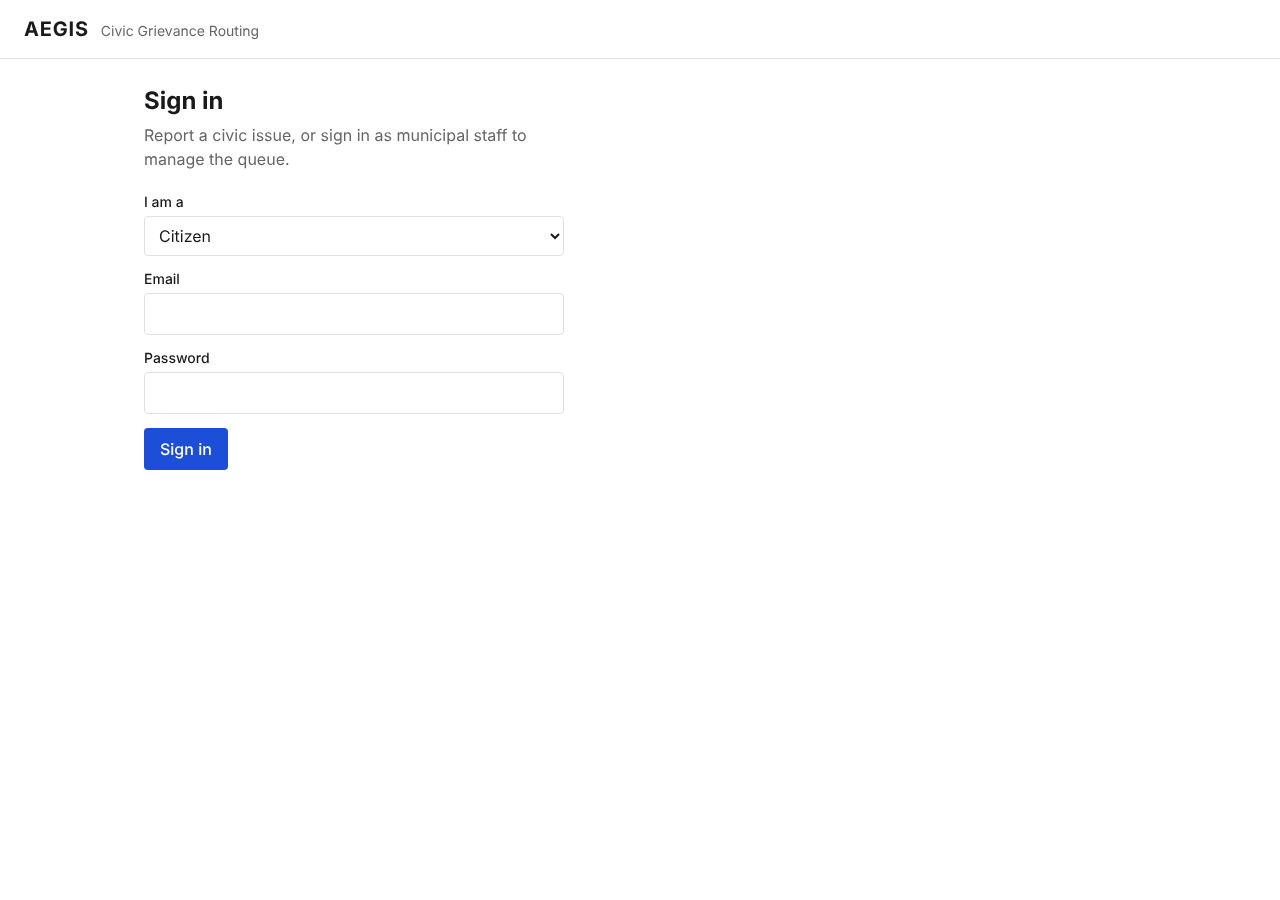
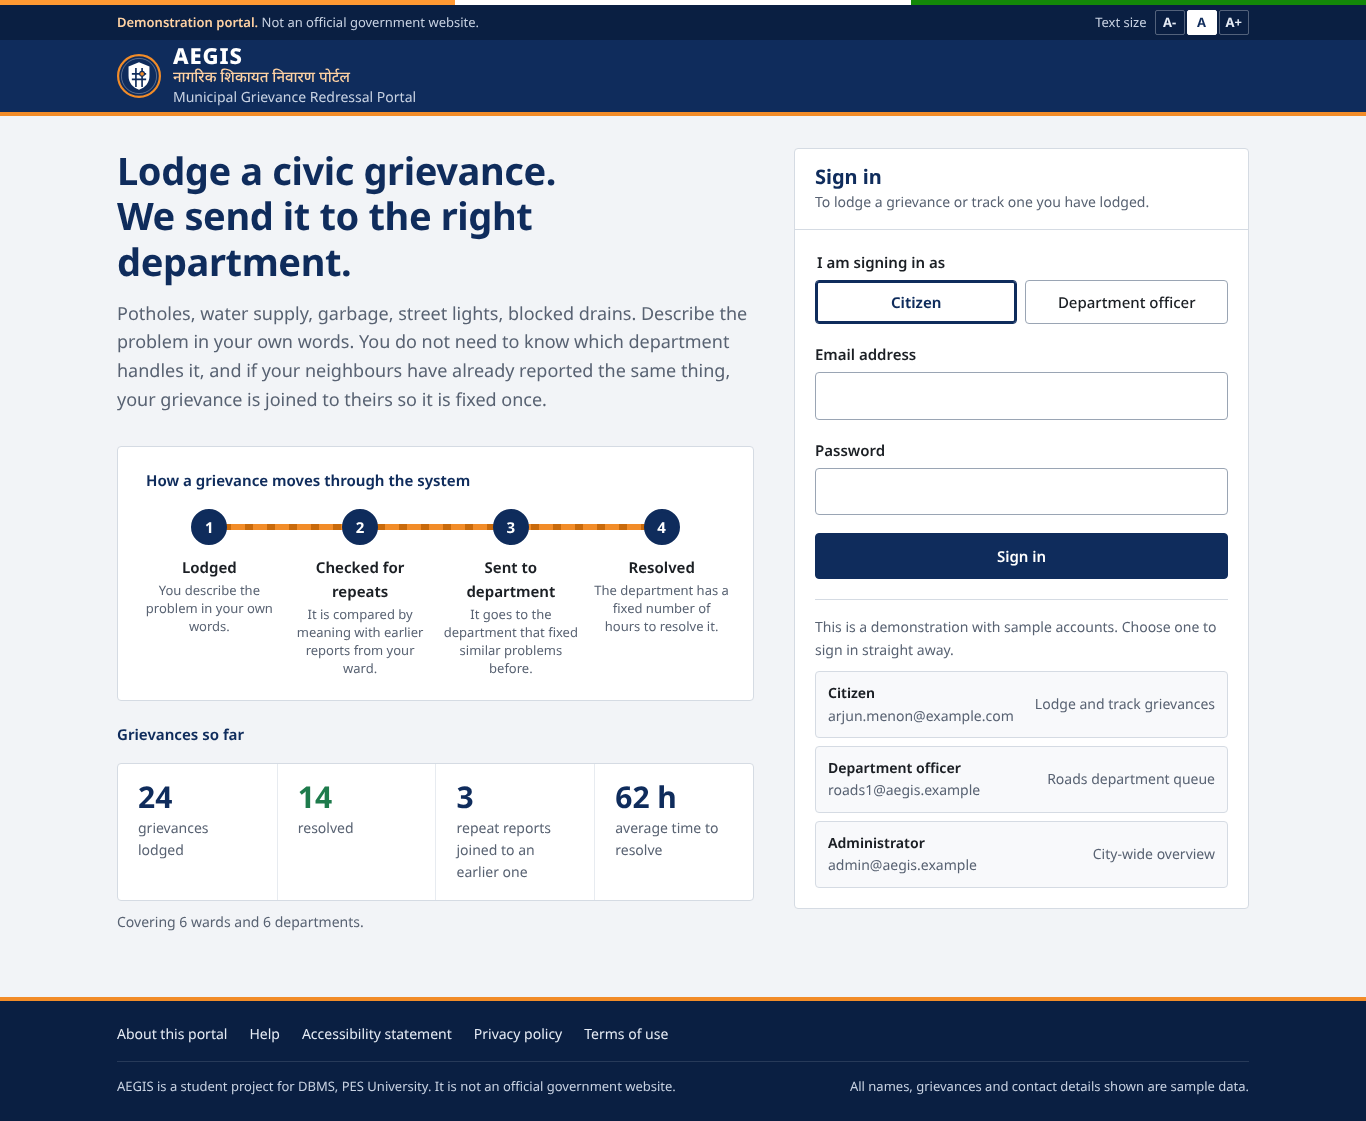
Update report, docs, screenshots and test scripts

diff --git a/docs/AEGIS_Submission_Report.md b/docs/AEGIS_Submission_Report.md
@@ -34,7 +34,7 @@ AEGIS addresses both by storing every complaint description as a 384-dimension v
 
 The system uses **PostgreSQL 16** for the structured entities, where referential integrity, constraints and transactions are essential, and **pgvector** for the complaint text, where relational decomposition offers nothing and semantic similarity is the required operation. Seven advanced database features are implemented: transactions with explicit row locking, triggers, stored functions, views and a materialized view, B-tree/GIN/HNSW/partial indexing, full-text search, and vector similarity search. A **Next.js 16** application provides role-based access for Citizens, Staff and Admins.
 
-The project goes beyond CRUD in a measurable way: the routing and deduplication engine is the product, and the forms around it merely feed it. Routing accuracy, duplicate-detection quality, constraint enforcement, transaction rollback and concurrency safety were all measured rather than asserted — **33 database tests, 29 API tests, a two-session concurrency race and a 78-check consistency audit, all passing.**
+The project goes beyond CRUD in a measurable way: the routing and deduplication engine is the product, and the forms around it merely feed it. Routing accuracy, duplicate-detection quality, constraint enforcement, transaction rollback and concurrency safety were all measured rather than asserted — **33 database tests, 36 API tests, a two-session concurrency race and a 92-check consistency audit, all passing.**
 
 ---
 
@@ -43,7 +43,7 @@ The project goes beyond CRUD in a measurable way: the routing and deduplication 
 | Layer | Technology | Why |
 |---|---|---|
 | Frontend | Next.js 16.4.3 (App Router), React 19 | Required by the specification; App Router keeps pages and API routes in one project |
-| Styling | Plain CSS | No framework needed for three pages; keeps the dependency list small |
+| Styling | Plain CSS, Noto Sans (English and Devanagari) | Design language of Indian government portals, after the Government of India's UX4G design system: deep blue masthead, tricolour band, saffron emphasis, bilingual title, text-size and skip-link accessibility controls. A fictional, clearly labelled demonstration: no State Emblem and no real government body's name |
 | Backend / API | Next.js Route Handlers | The specification's suggested backend layer; no separate server process |
 | Database driver | `pg` (node-postgres) with a pooled connection | Parameterised queries, which is what makes SQL injection impossible |
 | Relational database | PostgreSQL 16 | Mandatory SQL database (specification requirement 3) |
@@ -54,7 +54,7 @@ The project goes beyond CRUD in a measurable way: the routing and deduplication 
 | Testing | Bash and Python harnesses, Playwright for screenshots | 62 automated tests plus a consistency audit |
 | Version control | Git + GitHub | Requirement 15 |
 
-**Production npm dependencies: five** — `next`, `react`, `react-dom`, `pg`, `bcryptjs`. `npm audit` reports **0 vulnerabilities**.
+**Production npm dependencies: seven** — `next`, `react`, `react-dom`, `pg`, `bcryptjs`, and the two `@fontsource-variable/noto-sans` packages, which bundle Noto Sans and Noto Sans Devanagari locally so the Docker build needs no access to Google Fonts. Charts are hand-built in HTML, so there is no chart library. `npm audit` reports **0 vulnerabilities**.
 
 ### 4.1 How to run it
 
@@ -74,8 +74,8 @@ Sample accounts (all use the password `password123`):
 | Role | Email |
 |---|---|
 | Citizen | `arjun.menon@example.com` |
-| Staff | `roads1@bbmp.gov.in` |
-| Admin | `admin@bbmp.gov.in` |
+| Staff | `roads1@aegis.example` |
+| Admin | `admin@aegis.example` |
 
 To re-seed after changing any SQL file, `docker compose down -v` then `up` again — the `-v` is what deletes the data volume, and forgetting it is the most common reason a schema change appears to do nothing.
 
@@ -412,11 +412,18 @@ aegis-project/
 │   ├── .dockerignore
 │   ├── .env.example            local (non-Docker) configuration template
 │   ├── next.config.mjs         standalone output for a slim image
-│   ├── package.json            5 production dependencies
+│   ├── package.json            7 production dependencies
 │   │
 │   ├── lib/
 │   │   ├── db.js               pooled pg client, parameterised query helper
 │   │   └── auth.js             bcrypt login, HMAC session cookie, role guard
+│   │
+│   ├── components/
+│   │   ├── SiteHeader.jsx      header and navigation for the signed-in role
+│   │   ├── RouteRail.jsx       the four-stop progress rail for a complaint
+│   │   ├── Deadline.jsx        time left against the service deadline
+│   │   ├── charts.jsx          dependency-free bar and column charts
+│   │   └── format.js           plain-language status labels, dates
 │   │
 │   └── app/                    App Router
 │       ├── layout.jsx          shared shell
@@ -425,6 +432,7 @@ aegis-project/
 │       ├── citizen/page.jsx    /citizen  file and track complaints
 │       ├── staff/page.jsx      /staff    work queue, duplicate review, merge
 │       ├── admin/page.jsx      /admin    department performance dashboard
+│       ├── about/page.jsx      /about    help, accessibility, privacy, terms
 │       │
 │       └── api/                Route Handlers
 │           ├── auth/login/route.js        POST   sign in
@@ -437,7 +445,10 @@ aegis-project/
 │           │                              GET    vector similarity search
 │           │                              POST   merge into a parent
 │           ├── search/route.js            GET    full-text search
-│           └── dashboard/route.js         GET    statistics (admin only)
+│           ├── dashboard/route.js         GET    statistics (admin only)
+│           ├── auth/me/route.js           GET    who is signed in
+│           ├── public/stats/route.js      GET    headline counts (no sign-in)
+│           └── admin/escalate/route.js    POST   run the SLA sweep (admin only)
 │
 ├── db/
 │   ├── 01_schema.sql           tables, types, constraints, indexes, views
@@ -478,15 +489,15 @@ All nine screenshots are in `docs/screenshots/`, captured from a running instanc
 
 | File | What it shows |
 |---|---|
-| `01-login.png` | Sign-in form with the Citizen / Staff selector |
-| `02-citizen-file.png` | A complaint being filed, with the tracker beside it |
-| `03-citizen-submitted.png` | Confirmation, and the complaint appearing in the tracker |
-| `04-citizen-merged.png` | **A merged complaint still tracking its parent** — "Same issue as #15 … now ROUTED" |
-| `05-staff-queue.png` | The Roads department queue, sorted by SLA urgency |
-| `06-staff-duplicates.png` | **Similarity search flagging the duplicate at 75%** |
-| `07-staff-merged.png` | Merge confirmed, the duplicate removed from the queue |
-| `08-admin-dashboard.png` | Department performance and most-duplicated issues |
-| `09-admin-all-queue.png` | **Cross-department queue with breached SLAs in red** |
+| `01-login.png` | Landing page: what the service does, the four-stop route a complaint travels, live figures, and sign-in with one-click sample accounts |
+| `02-citizen-file.png` | A citizen describing a problem in their own words |
+| `03-citizen-submitted.png` | **Routed on filing**: "Sent to Roads and Infrastructure", with a note that similar reports already exist in the ward |
+| `04-citizen-merged.png` | **A joined report still tracking the earlier one**: the route rail stops at "Joined to AEG/00015" and shows that grievance's current status |
+| `05-staff-queue.png` | The Roads department queue, most urgent first, with a deadline meter on every row |
+| `06-staff-duplicates.png` | **The repeat-report check**: the earlier pothole report at 77%, "Very likely the same", with a one-click join |
+| `07-staff-merged.png` | Join confirmed, the repeat report removed from the queue |
+| `08-admin-dashboard.png` | City overview: complaints by department, time to resolve against each department's target, weekly volume, status breakdown, wards, and problems reported more than once |
+| `09-admin-all-queue.png` | **Every department's queue after the SLA check**: the two overdue complaints escalated and shown in red |
 
 ### 8.1 The live demo
 
@@ -499,15 +510,13 @@ docker compose exec -e PGHOST=/var/run/postgresql db bash /aegis-scripts/demo.sh
 The capture run produced this sequence end to end:
 
 ```
-2. citizen files a new complaint
-   Complaint #30 submitted.
-3. running the embedding pipeline
-   complaint #30 auto-routed to: Roads and Infrastructure
-5. staff queue and duplicate detection
-   2 duplicate candidate(s) shown
-   merged; #15 duplicate_count 3 -> 4
-6. admin dashboard
-   2 complaint(s) past their SLA deadline
+2. citizen lodges a grievance
+   grievance registered as AEG/00025
+   (confirmation: sent to Roads and Infrastructure; 2 similar reports in the ward)
+4. staff queue and repeat-report check
+   AEG/00025 joined to the earlier report
+5. administrator
+   overdue check escalated the 2 grievances past their deadline
 ```
 
 That is the whole product in six lines: a citizen filed a complaint in free text, the pipeline embedded it, a trigger routed it to the correct department with no dropdown involved, similarity search recognised it as the same pothole already on file, and merging it incremented the parent's report count.
@@ -515,9 +524,9 @@ That is the whole product in six lines: a citizen filed a complaint in free text
 **Suggested demonstration order (about five minutes):**
 
 1. Sign in as a citizen and file a pothole complaint worded differently from the existing ones.
-2. Run the embedding pipeline — `docker compose exec db psql -U aegis -d aegis -f /aegis-scripts/embed_demo.sql` — and point out that the complaint has acquired a department without anyone choosing one.
-3. Sign in as staff, click **Check duplicates**, and show the similarity percentage against the existing report.
-4. Merge, and show the parent's report counter increment.
+2. Point out the confirmation: the complaint was sent to a department the moment it was filed, without anyone choosing one. (The demonstration build embeds new complaints inline, controlled by `DEMO_EMBEDDINGS`; in production `scripts/embed.py` does it asynchronously.)
+3. Sign in as staff, select the new complaint in the queue, and show the similarity percentage against the earlier report under "Is this a repeat of an earlier report?".
+4. Choose **Join to this one**, confirm, and show the earlier grievance's Reports count go up.
 5. Sign back in as the first citizen and show that their complaint now tracks the parent issue rather than vanishing.
 6. Sign in as admin and show the dashboard, the overdue complaints in red, and the most-duplicated issues table.
 
@@ -574,9 +583,9 @@ Keep commit authorship matching this table so the GitHub history corroborates it
 | Suite | Result | Covers |
 |---|---|---|
 | `db/05_test.sql` | **33 / 33 passed** | Constraints, triggers, transaction rollback, search, views, SLA escalation, cascades, CTE and window-function results |
-| `scripts/api_test.sh` | **29 / 29 passed** | Authentication, role-based authorisation, both workflows, search, logout |
+| `scripts/api_test.sh` | **36 / 36 passed** | Authentication, role-based authorisation, both workflows, search, logout, and the endpoints added with the interface: public figures expose no personal data, the SLA sweep is admin-only, and a new complaint is routed on filing |
 | `scripts/concurrency_test.sh` | **PASS** | Two-session merge race; exactly one merge took effect |
-| `scripts/audit.py` | **78 / 78 passed** | Documented figures vs the live schema; named objects exist; security properties; seed-data invariants; diagram matches the database |
+| `scripts/audit.py` | **92 / 92 passed** | Documented figures vs the live schema; named objects exist; security properties; seed-data invariants; diagram matches the database |
 | `npm audit` | **0 vulnerabilities** | Production dependency tree |
 
 Seven of the database tests pass *because the database refused to do something* — the only way to show a constraint is enforced rather than merely declared.

diff --git a/README.md b/README.md
@@ -145,6 +145,7 @@ Illegal transitions (for example reopening a closed complaint, or moving to `IN_
 | Vector search | [pgvector](https://github.com/pgvector/pgvector), `VECTOR(384)`, HNSW index, cosine distance |
 | Embedding model | `sentence-transformers/all-MiniLM-L6-v2` |
 | Web app and API | Next.js 16 (App Router), React 19 |
+| Interface | Indian government portal style after UX4G: tricolour band, bilingual title, Noto Sans, text-size controls (fictional demo, no State Emblem) |
 | DB driver | `pg` (node-postgres) |
 | Auth | `bcryptjs` + HMAC-signed session cookie |
 | Containers | Docker Compose (`pgvector/pgvector:pg16` + Next.js standalone image) |
@@ -329,10 +330,10 @@ All seeded accounts use the password `password123`.
 | Role | Email | What you see |
 |---|---|---|
 | Citizen | `arjun.menon@example.com` | File complaints, track your own |
-| Staff | `roads1@bbmp.gov.in` | Roads department queue, duplicate merging |
-| Admin | `admin@bbmp.gov.in` | All departments plus the performance dashboard |
+| Staff | `roads1@aegis.example` | Roads department queue, duplicate merging |
+| Admin | `admin@aegis.example` | All departments plus the performance dashboard |
 
-> 🎯 **Try this first:** sign in as a **citizen** and file a pothole complaint worded differently from the existing ones. Run the embedding pipeline (see the demo below), then sign in as **staff** and click **"Check duplicates"** on it. That is the feature the whole project is built around.
+> 🎯 **Try this first:** on the sign-in page, choose the sample **Citizen** account and lodge a pothole grievance in your own words. The confirmation gives you a registration number (for example AEG/00025) and tells you straight away which department it went to and whether similar reports exist. Then sign out, choose **Department officer**, and select your grievance in the queue to see the earlier report it matches. That is the feature the whole project is built around.
 
 ---
 
@@ -346,20 +347,18 @@ This runs inside the database container, so it works from any shell, including W
 
 Seven steps, each printing real database output: the duplicate cluster, vector similarity finding it, automatic routing, the merge transaction, SLA escalation, the constraints refusing bad data, and the trigger-written audit trail. Press Enter to advance, or set `NOPAUSE=1` to run straight through.
 
-A complaint filed through the web interface is not embedded until the pipeline runs, exactly as in production. Without Python, run the SQL-only equivalent:
+**Routing on filing.** In this demonstration build, a complaint filed through the web interface is embedded immediately with the SQL demo embedding, which fires the routing trigger, so the citizen sees the department straight away. This is controlled by `DEMO_EMBEDDINGS` (on by default in `docker-compose.yml`). With it set to `false`, complaints wait for the pipeline as they would in production: run `scripts/embed.py` for the real model, or the SQL-only equivalent:
 
 ```bash
 docker compose exec db psql -U aegis -d aegis -f /aegis-scripts/embed_demo.sql
 ```
 
-Inserting the embedding fires the routing trigger, so the new complaint gets a department as a side effect.
-
 **Suggested five-minute demonstration**
 
 1. Sign in as a citizen and file a pothole complaint worded differently from the existing ones.
-2. Run the embedding pipeline and point out that the complaint now has a department, with no dropdown involved.
-3. Sign in as staff, click **Check duplicates**, and show the similarity percentage against the existing report.
-4. Merge, and show the parent's report counter go up.
+2. Point out the confirmation: the complaint already has a department, and no dropdown was involved.
+3. Sign in as staff, select the new complaint in the queue, and show the similarity percentage against the earlier report under "Is this a repeat of an earlier report?".
+4. Choose **Join to this one**, confirm, and show the earlier grievance's Reports count go up.
 5. Sign back in as the first citizen and show that their complaint now tracks the parent issue instead of disappearing.
 6. Sign in as admin and show the dashboard, the overdue complaints in red, and the most-duplicated issues.
 
@@ -422,6 +421,9 @@ All routes are Next.js route handlers under `app/app/api/`. Every route other th
 | `POST` | `/api/complaints/[id]/duplicates` | Merge a duplicate into a parent (staff) |
 | `GET` | `/api/search` | Full-text search |
 | `GET` | `/api/dashboard` | Per-department statistics (admin only) |
+| `GET` | `/api/auth/me` | Who is signed in |
+| `GET` | `/api/public/stats` | Headline counts for the landing page; no sign-in, no personal data |
+| `POST` | `/api/admin/escalate` | Run the SLA sweep now (admin only) |
 
 ---
 
@@ -431,7 +433,7 @@ All routes are Next.js route handlers under `app/app/api/`. Every route other th
 |---|---|---|
 | **Database tests**: constraints, triggers, rollback, search, views, SLA, cascades, CTEs/windows | `bash scripts/run_tests.sh` | **33 / 33** |
 | **Concurrency test**: two sessions race to merge the same complaint | `bash scripts/concurrency_test.sh` | **PASS** |
-| **API tests**: auth, role-based access, both workflows, search, logout | see below | **29 / 29** |
+| **API tests**: auth, role-based access, both workflows, search, logout, interface endpoints | see below | **36 / 36** |
 | **Consistency audit**: docs, diagrams, Docker setup and screenshots vs the live schema | `python3 scripts/audit.py` | **92 / 92** |
 
 `run_tests.sh` creates a throwaway database, runs all six SQL files, and reports PASS/FAIL per check.

diff --git a/docs/AEGIS_Project_Documentation.md b/docs/AEGIS_Project_Documentation.md
@@ -540,7 +540,7 @@ Note that the negative tests are the important ones. Seven of these tests pass *
 
 ### 13.2 API tests — `scripts/api_test.sh`
 
-**29 of 29 passed**, against a production build of the app on a seeded database.
+**36 of 36 passed**, against a production build of the app on a seeded database.
 
 | Group | Tests | Result | What it proves |
 |---|---|---|---|
@@ -550,6 +550,7 @@ Note that the negative tests are the important ones. Seven of these tests pass *
 | D. Staff workflow | 6 | 6 pass | Queue loads; duplicate search returns candidates; self-merge and merge-into-merged return 409 from the stored function; a staff member gets 404 updating another department's complaint; an invalid status value is rejected |
 | E. Search | 3 | 3 pass | Full-text search returns matches and requires a session |
 | F. Logout | 2 | 2 pass | The session is invalid immediately after logout |
+| G. Interface endpoints | 7 | 7 pass | Public figures need no sign-in and contain no names or complaint text; the SLA sweep refuses signed-out users (401) and ordinary staff (403); a new complaint is routed to a department as soon as it is filed |
 
 ### 13.3 Routing accuracy
 
@@ -567,7 +568,7 @@ The routing function itself weights each neighbour by the **square** of its simi
 
 ### 13.4b Consistency audit — `scripts/audit.py`
 
-**59 of 59 passed.** This is the check that stops the write-up from drifting away from the code. It reseeds a throwaway database and then verifies that every object count quoted in section 8 matches reality, that every function, trigger, index and view named anywhere in this document actually exists, that the security requirements hold in the app source (no hard-coded connection string, no string-concatenated SQL, bcrypt in use, `httpOnly` cookies, `.env.local` git-ignored), that the seed data is internally consistent (no orphaned merge links, no complaint that is its own parent, the denormalised counter correct), and that the relational schema diagram matches the live database table for table and key for key.
+**92 of 92 passed.** This is the check that stops the write-up from drifting away from the code. It reseeds a throwaway database and then verifies that every object count quoted in section 8 matches reality, that every function, trigger, index and view named anywhere in this document actually exists, that the security requirements hold in the app source (no hard-coded connection string, no string-concatenated SQL, bcrypt in use, `httpOnly` cookies, `.env.local` git-ignored), that the seed data is internally consistent (no orphaned merge links, no complaint that is its own parent, the denormalised counter correct), and that the relational schema diagram matches the live database table for table and key for key.
 
 ### 13.5 How to re-run everything
 
